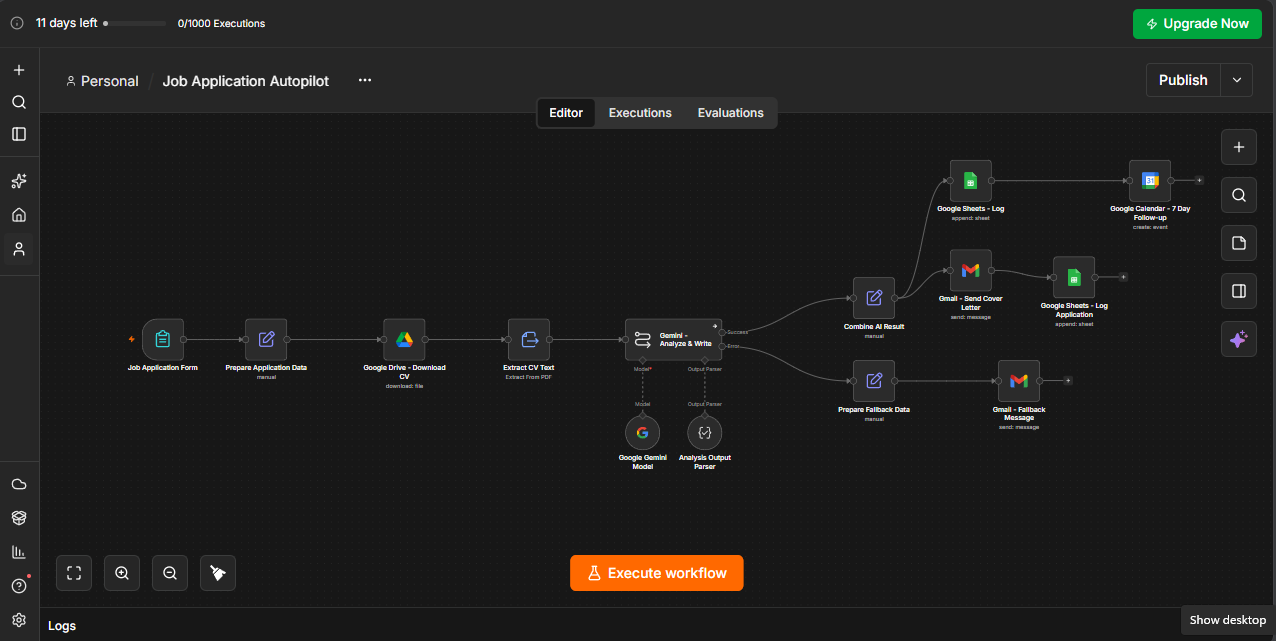
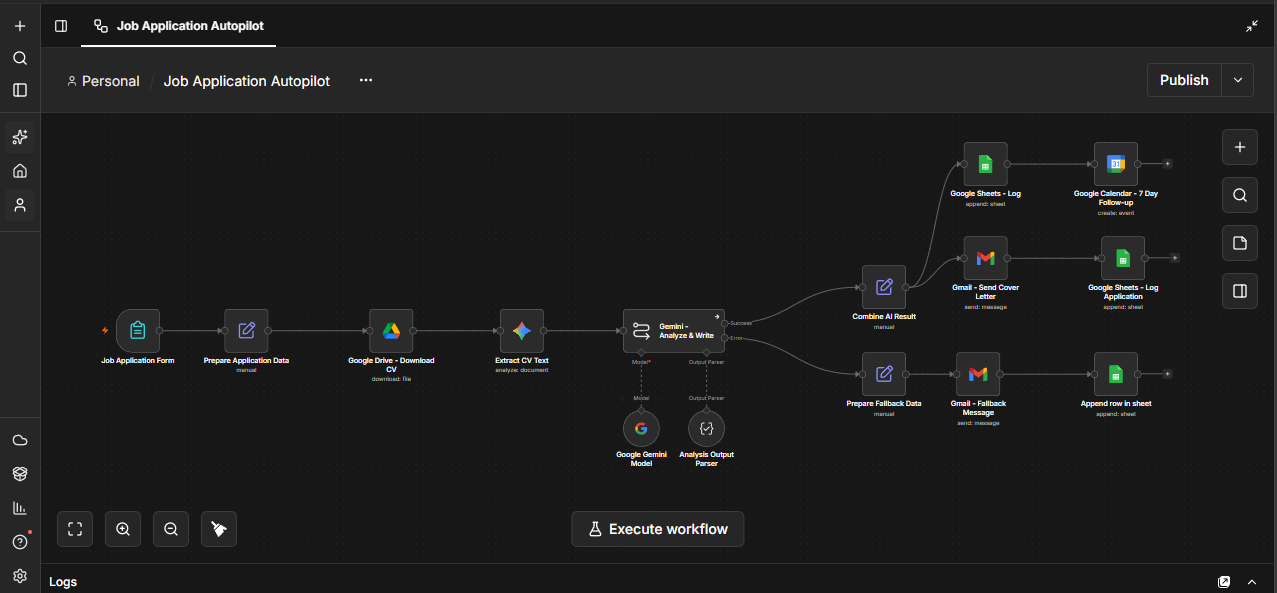
Update workflow configuration and README

diff --git a/README.md b/README.md
@@ -194,6 +194,7 @@ flowchart TD
     E -->|Error| J["Prepare Fallback Data"]
 
     J --> K["Gmail - Fallback Message"]
+    K --> P["Append row in sheet"]
 
     I --> L["Gmail - Send Cover Letter"]
     I --> M["Google Sheets - Log"]
@@ -206,7 +207,7 @@ flowchart TD
 
 ## 🏗 Workflow Components
 
-The imported n8n workflow contains **14 nodes**.
+The imported n8n workflow contains **15 nodes**.
 
 | Node | Purpose |
 |---|---|
@@ -219,6 +220,7 @@ The imported n8n workflow contains **14 nodes**.
 | **Analysis Output Parser** | Forces the AI result into a structured JSON format |
 | **Prepare Fallback Data** | Builds fallback application data when AI processing fails |
 | **Gmail - Fallback Message** | Notifies the candidate that AI analysis is temporarily unavailable |
+| **Append row in sheet** | Logs the application data to a fallback Google Sheet |
 | **Combine AI Result** | Combines application data with the successful Gemini result |
 | **Gmail - Send Cover Letter** | Sends the analysis and generated cover letter |
 | **Google Sheets - Log Application** | Appends application information after the email step |
@@ -258,7 +260,7 @@ Google Docs files can be converted to PDF during the download step.
 
 ### 4. Text Extraction
 
-The downloaded PDF is processed by **Extract CV Text**, producing the CV text that is passed to Gemini.
+The downloaded PDF is processed by **Extract CV Text** (utilizing Gemini Langchain integration), producing the CV text that is passed to Gemini.
 
 ### 5. AI Evaluation
 
@@ -318,9 +320,11 @@ Gemini Error
 Prepare Fallback Data
     ↓
 Gmail - Fallback Message
+    ↓
+Append row in sheet
 ```
 
-The candidate is informed that the automated AI analysis is temporarily unavailable while the application can still be recorded.
+The candidate is informed that the automated AI analysis is temporarily unavailable while the application is logged to a fallback sheet.
 
 ---
 
@@ -388,7 +392,7 @@ The date is generated automatically using:
 Current time + 7 days
 ```
 
-This means every successfully processed application can have a follow-up scheduled automatically.
+This means every successfully processed application can have a follow-up scheduled automatically. The event description is automatically populated with the Company Name, Fit Score, and Cover Letter for easy reference.
 
 ---
 
@@ -471,15 +475,7 @@ This makes the workflow more suitable for transparent CV screening than a generi
 
 The exported workflow contains environment-specific n8n credential references and Google resource references. When importing it into another n8n instance, review every integration node and select the appropriate credentials/resources for your environment.
 
-The current exported workflow also contains Google Sheets mappings that should be **verified before production use**, particularly fields such as:
-
-- `Position`
-- `Matching Skills`
-- `Missing Skills`
-- `Portfolio`
-- `Follow-up Date`
-
-The workflow export currently contains mappings for these fields that may not correspond to the intended application-data fields. Test the resulting spreadsheet rows before relying on the automation in production.
+The workflow export contains fully configured mappings for Google Sheets, ensuring all data fields (Position, Skills, Portfolio, Follow-up Date, etc.) are correctly logged. Test the resulting spreadsheet rows before relying on the automation in production.
 
 ---
 
@@ -580,7 +576,7 @@ The n8n workflow can be imported directly from the provided JSON export:
 Job Application Autopilot (1).json
 ```
 
-The workflow contains **14 nodes** and uses n8n's standard workflow connection structure.
+The workflow contains **15 nodes** and uses n8n's standard workflow connection structure.
 
 ---
 
